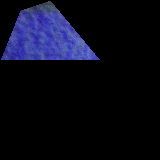
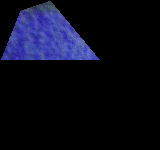
ワープを高速化

diff --git a/src/logics/warp_.py b/src/logics/warp_.py
@@ -92,7 +92,7 @@ def replace_image(
             pos = mat @ np.array([j, i, 1])
 
             # scale処理
-            pos = (pos // pos[2]).astype(np.int16)
+            pos = pos // pos[2]
             if  pos[0] >= 0 and \
                 pos[0] < ref_h and \
                 pos[1] >= 0 and \
@@ -219,23 +219,29 @@ def warp(
     return_height,
     return_width):
 
+    bb = np.zeros(shape=(return_height, return_width))
     # 任意の点から各辺への距離(d)とその垂線の足が辺のどのあたりに位置しているかの割合(t)
-    def td(f, t):
+    def td(f, t, s=False):
         a = np.array([f, t])
         dif = np.diff(a, axis=0)[0]
         det = np.linalg.det(a)
         sq = dif @ dif
-        def ret(x):
+        print(dif[1])
+
+        def ret(x, i=0, j=0):
             up = (dif[1] * x[0] - dif[0] * x[1] - det)
             r = -up / sq
-            h_dif = f[:,None,None] - np.array([r * dif[1] + x[0], -r * dif[0] + x[1]])
-            return np.sqrt(np.sum(h_dif**2, axis=0) / sq), (np.abs(up) / np.sqrt(sq))
+            h_dif = f - np.array([r * dif[1] + x[0], -r * dif[0] + x[1]]) 
+            if s:
+                bb[i, j] = h_dif @ h_dif / sq
+            return np.sqrt(h_dif @ h_dif / sq), np.abs(up) / np.sqrt(sq) 
         return ret
+
     print(to_bottom_left, to_bottom_right)
     td_bottom = td(to_bottom_left, to_bottom_right)
     td_top = td(to_top_left, to_top_right)
     td_left = td(to_bottom_left, to_top_left)
-    td_right = td(to_bottom_right, to_top_right)
+    td_right = td(to_bottom_right, to_top_right, True)
 
     # 各頂点の移動量を計算
     move_bottom_left = from_bottom_left - to_bottom_left
@@ -244,51 +250,70 @@ def warp(
     move_top_right = from_top_right - to_top_right
 
     h, w, color_channel = image.shape
+    ret = np.zeros(shape=(return_height, return_width, color_channel), dtype=np.uint8)
+    reb = np.zeros(shape=(return_height, return_width))
+    rett = np.zeros(shape=(return_height, return_width))
+    rel = np.zeros(shape=(return_height, return_width))
+    rer = np.zeros(shape=(return_height, return_width))
+    for i in range(return_height):
+        for j in range(return_width):
+            pos = np.array([i, j])
+            t_bottom, d_bottom = td_bottom(pos)
+            t_top, d_top = td_top(pos)
+            t_left, d_left = td_left(pos)
+            t_right, d_right = td_right(pos, i, j)
 
-    def create(i, j):
-        pos = np.array([i, j])
-        t_bottom, d_bottom = td_bottom(pos)
-        t_top, d_top = td_top(pos)
-        t_left, d_left = td_left(pos)
-        t_right, d_right = td_right(pos)
+            reb[i, j] = d_bottom
+            rett[i, j] = d_top
+            rer[i, j] = d_right
+            rel[i, j] = d_left
+            
 
-        t_vert = d_bottom / (d_bottom + d_top)
-        t_hori = d_left / (d_left + d_right)
+            if  (t_bottom < 0 or t_bottom > 1) and \
+                (t_top < 0 or t_top > 1) and \
+                (t_left < 0 or t_left > 1) and \
+                (t_right < 0 or t_right > 1):
+                continue
 
-        v = (i\
-            +((1 - t_bottom) * move_bottom_left[0] + t_bottom * move_bottom_right[0]) * (1 - t_vert)\
-            + ((1 - t_top) * move_top_left[0] + t_top * move_top_right[0]) * t_vert)
+            
+            t_vert = d_bottom / (d_bottom + d_top)
+            t_hori = d_left / (d_left + d_right)
 
-        u = (j\
-            + ((1 - t_left) * move_bottom_left[1] + t_left * move_top_left[1]) * (1 - t_hori)\
-            + ((1 - t_right) * move_bottom_right[1] + t_right * move_top_right[1]) * t_hori)
-        
-        v_int = v.astype(np.int16)
-        u_int = u.astype(np.int16)
-        bottom = np.where((v_int < 0) | (v_int > h-2), h-2, v_int)
-        left = np.where((u_int < 0) | (u_int > w-2), w-2, u_int)
-        top = bottom+1
-        right = left+1
-        v_ratio = (v - v_int)[:,:,None]
-        u_ratio = (u - u_int)[:,:,None]
+            v = i\
+                +((1 - t_bottom) * move_bottom_left[0] + t_bottom * move_bottom_right[0]) * (1 - t_vert)\
+                + ((1 - t_top) * move_top_left[0] + t_top * move_top_right[0]) * t_vert
 
-        return np.where((
-                ((t_bottom < 0) | (t_bottom > 1)) &\
-                ((t_top < 0) | (t_top > 1)) &\
-                ((t_left < 0) | (t_left > 1)) &\
-                ((t_right < 0) | (t_right > 1))
-            )[:,:,None],
-            0, 
-            cubic_blend(
-                    0, 
-                    image[bottom, left],
-                    image[top, left],
-                    image[bottom, right],
-                    image[top, right],
-                    v_ratio, u_ratio))
+            u = j\
+                + ((1 - t_left) * move_bottom_left[1] + t_left * move_top_left[1]) * (1 - t_hori)\
+                + ((1 - t_right) * move_bottom_right[1] + t_right * move_top_right[1]) * t_hori
 
+            bottom = int(v)
+            left = int(u)
+            if  bottom < 0 or bottom > w-2 or\
+                left < 0 or left > h-2:
+                continue
 
-    return np.fromfunction(create, shape=(return_height, return_width))
+            top = bottom+1
+            right = left+1
+            u_ratio = u - left
+            v_ratio = v - bottom
+
+            ret[i, j] = cubic_blend(
+                            0, 
+                            image[bottom, left],
+                            image[top, left],
+                            image[bottom, right],
+                            image[top, right],
+                            v_ratio, u_ratio)
+
+            # ret[i, j] = [0, 255, 255]
+    import cv2
+    cv2.imwrite("reb.png", ( ( reb+np.abs( np.min(reb) ) ) / np.max(reb) * 255))
+    cv2.imwrite("ret.png", ( ( rett+np.abs( np.min(rett) ) ) / np.max(rett) * 255))
+    cv2.imwrite("rer.png", ( ( rer+np.abs( np.min(rer) ) ) / np.max(rer) * 255))
+    cv2.imwrite("rel.png", ( ( rel+np.abs( np.min(rel) ) ) / np.max(rel) * 255))
+    cv2.imwrite("bb.png", ((bb+np.abs(np.min(bb))) / np.max(bb) * 255))
+    return ret
 
 if __name__ == "__main__":
     # siz = 160
@@ -330,33 +355,33 @@ if __name__ == "__main__":
     # cv2.imwrite("from.png", clip)
     # cv2.imwrite("to.png", ret)
 
-    fac = 10
+    siz = 160
     from operation import cross, diff
     import cv2
-    img1 = np.ones(shape=(15*fac, 16*fac, 3), dtype=np.uint8) * 255
-    bl = np.array((1, 2))*fac
-    br = np.array((0, 5))*fac
-    tr = np.array((6, 10))*fac
-    tl = np.array((6, 0))*fac
+    img1 = np.ones(shape=(siz, siz, 3), dtype=np.uint8) * 255
+    bl = np.array((10, 20))
+    br = np.array((0, 50))
+    tr = np.array((60, 100)) 
+    tl = np.array((60, 0))
 
     vec01 = diff(*br, *bl)
     vec12 = diff(*tr, *br)
     vec23 = diff(*tl, *tr)
     vec30 = diff(*bl, *tl)
-    clip = np.zeros(shape=(15*fac, 16*fac, 3), dtype=np.uint8)
+    clip = np.zeros(shape=(siz, siz, 3), dtype=np.uint8)
     rep = cv2.imread(r"C:\Users\Lab\Documents\sakuma\class\computervision\cv_finalreport\destination.png")
-    for i in range(15*fac):
-        for j in range(16*fac):
+    for i in range(siz):
+        for j in range(siz):
             if cross(*vec01, *diff(i, j, *bl)) < 0 and \
                 cross(*vec12, *diff(i, j, *br)) < 0 and \
                 cross(*vec23, *diff(i, j, *tr)) < 0 and \
                 cross(*vec30, *diff(i, j, *tl)) < 0:
                 clip[i, j] = rep[i, j]
 
-    to_bl = bl+(np.array([1,2])+5)*fac
-    to_br = br+(np.array([1,1])+5)*fac
-    to_tr = tr+(np.array([1,4])+5)*fac
-    to_tl = tl+(np.array([1,2])+5)*fac
+    to_bl = bl+np.array([10,20])+50
+    to_br = br+np.array([10,10])+50
+    to_tr = tr+np.array([10,40])+50
+    to_tl = tl+np.array([10,20])+50
     ret = warp(
         clip,
         bl,
@@ -367,7 +392,7 @@ if __name__ == "__main__":
         to_br,
         to_tr,
         to_tl,
-        26*fac, 26*fac)
+        260, 260)
 
     ret[to_bl[0], to_bl[1]] = [0,0,255]
     ret[to_br[0], to_br[1]] = [0,255,0]
@@ -376,4 +401,4 @@ if __name__ == "__main__":
 
     cv2.imwrite("start.png", img1)
     cv2.imwrite("from.png", clip)
-    cv2.imwrite("to2.png", ret)
+    cv2.imwrite("to.png", ret)
